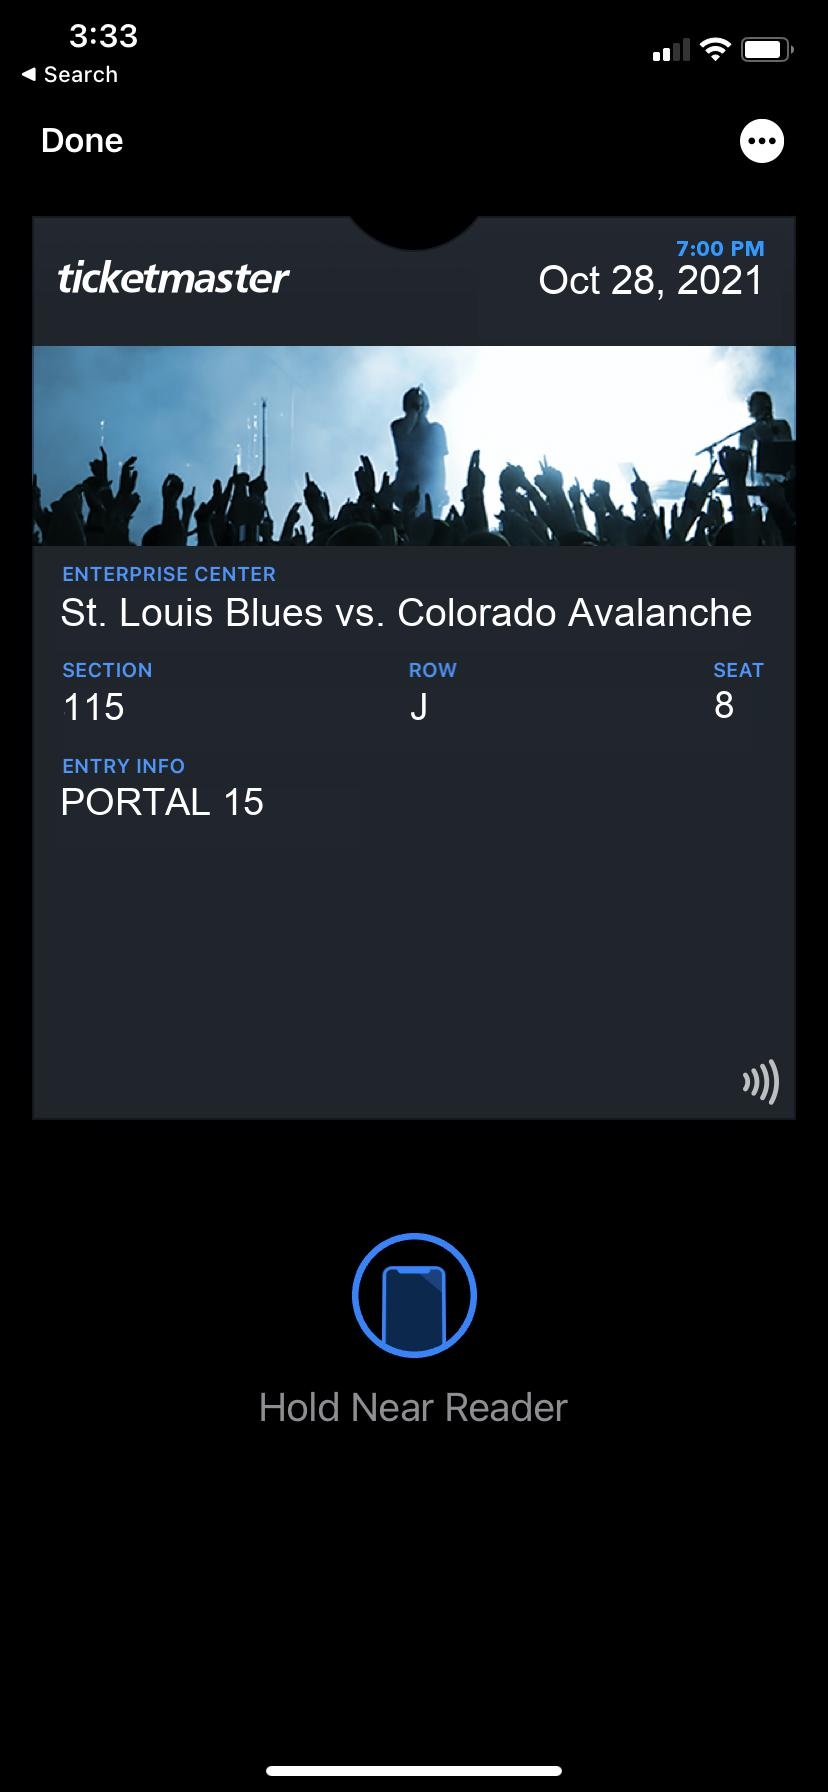
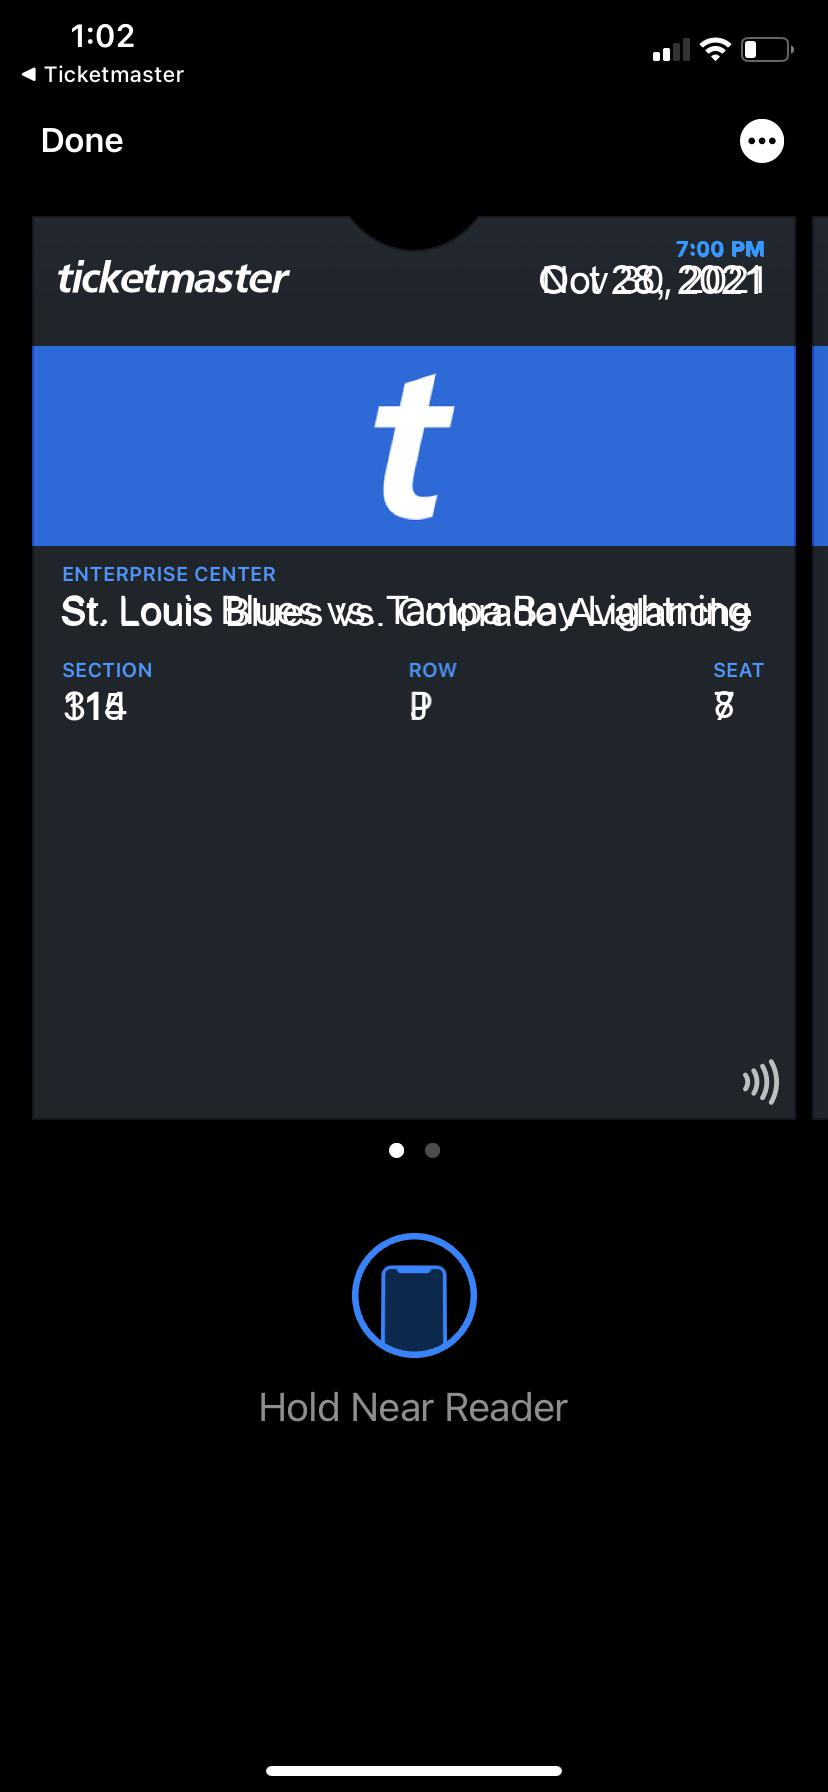
blues tm

diff --git a/templates/index.html b/templates/index.html
@@ -41,6 +41,7 @@
                     <select class="form-control" id="home">
                         <option>Bruins</option>
                         <option>Blues</option>
+                        <option>Blues_TM</option>
                     </select>
                 </div>
                 <div class="col">

diff --git a/tix.py b/tix.py
@@ -7,7 +7,7 @@ import os, re, sys
 
 def blues_test():
 
-    my_image = Image.open("model_tix/blues.jpeg")
+    my_image = Image.open("../blues_tm.jpeg")
 
     time_font = ImageFont.truetype('fonts/avenir-bold.ttf', 22)
     time_text = "7:00 PM"
@@ -37,7 +37,7 @@ def blues_test():
     image_editable.text((62,707), section_text, (255, 255, 255), font = section_font, anchor="lm")
     image_editable.text((410,707), row_text, (255, 255, 255), font = row_font, anchor="lm")
     image_editable.text((714,705), seat_text, (255, 255, 255), font = seat_font, anchor="lm")
-    image_editable.text((60,802), entry_text, (255, 255, 255), font = entry_font, anchor="lm")
+    # image_editable.text((60,802), entry_text, (255, 255, 255), font = entry_font, anchor="lm")
 
     my_image = my_image.convert('RGB')
     my_image.save("test.jpg")
@@ -89,14 +89,30 @@ def blues(time, date, game, section, row, seat, entry, path):
     image_editable.text((714,705), seat, (255, 255, 255), font = seat_font, anchor="lm")
     image_editable.text((60,802), entry, (255, 255, 255), font = entry_font, anchor="lm")
 
-    # image_editable = ImageDraw.Draw(my_image)
-    # image_editable.text((1035,366), time, (241,199,83), font = time_font, anchor="rm")
-    # image_editable.text((1035,410), date, (255, 255, 255), font = date_font, anchor="rm")
-    # image_editable.text((91,875), "St. Louis Blues vs. " + game, (255, 255, 255), font = game_font, anchor="lm")
-    # image_editable.text((93,1015), section, (255, 255, 255), font = section_font, anchor="lm")
-    # image_editable.text((595,1015), row, (255, 255, 255), font = row_font, anchor="lm")
-    # image_editable.text((962,1015), seat, (255, 255, 255), font = seat_font, anchor="lm")
-    # image_editable.text((91,1160), entry, (255, 255, 255), font = entry_font, anchor="lm")
+    my_image = my_image.convert('RGB')
+    my_image.save(path)
+
+    print("Done")
+
+def blues_tm(time, date, game, section, row, seat, entry, path):
+    my_image = Image.open("model_tix/blues_tm.jpeg")
+
+    time_font = ImageFont.truetype('fonts/avenir-bold.ttf', 22)
+    date_font = ImageFont.truetype('fonts/arial.ttf', 40)
+    game_font = ImageFont.truetype('fonts/arial.ttf', 39)
+    section_font = ImageFont.truetype('fonts/arial.ttf', 37)   
+    row_font = ImageFont.truetype('fonts/arial.ttf', 37)
+    seat_font = ImageFont.truetype('fonts/arial.ttf', 37)
+    entry_font = ImageFont.truetype('fonts/arial.ttf', 38)
+
+    image_editable = ImageDraw.Draw(my_image)
+    image_editable.text((765,250), time, (51,153,255,255), font = time_font, anchor="rm")
+    image_editable.text((765,280), date, (255, 255, 255), font = date_font, anchor="rm")
+    image_editable.text((60,612), "St. Louis Blues vs. " + game, (255, 255, 255), font = game_font, anchor="lm")
+    image_editable.text((62,707), section, (255, 255, 255), font = section_font, anchor="lm")
+    image_editable.text((410,707), row, (255, 255, 255), font = row_font, anchor="lm")
+    image_editable.text((714,705), seat, (255, 255, 255), font = seat_font, anchor="lm")
+    # image_editable.text((60,802), entry, (255, 255, 255), font = entry_font, anchor="lm")
 
     my_image = my_image.convert('RGB')
     my_image.save(path)

diff --git a/app.py b/app.py
@@ -16,7 +16,7 @@ def index():
     return render_template('index.html')
 
 @app.route('/send_email')
-def send_email(email):
+def send_email(email, section, row):
     print("EMAIL", email)
     smtp_server = 'smtp.gmail.com'
     smtp_port = 465
@@ -27,7 +27,7 @@ def send_email(email):
     message = MIMEMultipart('mixed')
     message['From'] = 'scharf.frontrow@gmail.com'
     message['To'] = email
-    message['Subject'] = 'Tickets'
+    message['Subject'] = "Section " + section + ", Row " + row
 
     # msg_content = '<h4>Hi There,<br> This is a testing message.</h4>\n'
     # body = MIMEText(msg_content, 'html')
@@ -88,6 +88,6 @@ def make_tix():
     merger.write("tix.pdf")
     merger.close()
 
-    send_email(data["email"])
+    send_email(data["email"], data["section"], data["row"])
 
     return ("nothing")

diff --git a/master.py b/master.py
@@ -29,6 +29,8 @@ def main():
                 tix.bruins(time, date, opponent, section, row_num, seat, entry, path)
             if(row['home'] == "Blues"):
                 tix.blues(time, date, opponent, section, row_num, seat, entry, path)
+            if(row['home'] == "Blues_TM"):
+                tix.blues_tm(time, date, opponent, section, row_num, seat, entry, path)
 
 if __name__ == "__main__":
     import os, re, sys, subprocess
